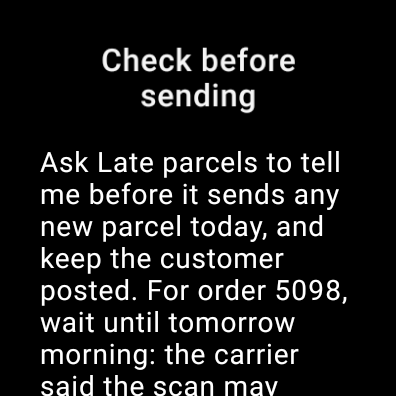
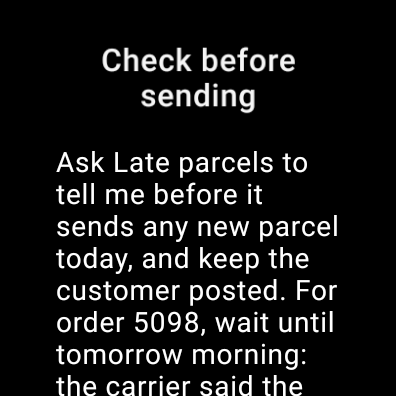
Wear v2: the long transcript is inset from the round edge, and a page's last item scrolls clear of the page dots

Changed region(s): [[0.0909, 0.3636, 0.8788, 1.0]]

diff --git a/android/wear/src/main/kotlin/bot/tafs/wear/ReviewScreens.kt b/android/wear/src/main/kotlin/bot/tafs/wear/ReviewScreens.kt
@@ -161,7 +161,8 @@ private fun ReviewScreen(text: String, audio: VoiceAudio?, act: Actions, probe: 
   ScalingLazyColumn(Modifier.fillMaxSize().background(Color.Black), state = rememberScalingLazyListState(initialCenterItemIndex = 0),
     verticalArrangement = Arrangement.spacedBy(4.dp)) {
     item { ListHeader { Text(Words.Watch.review) } }
-    item { Text(text, style = MaterialTheme.typography.bodyMedium, modifier = Modifier.fillMaxWidth().padding(horizontal = 10.dp)) }
+    // Inset from the round edge, so no line of a long transcript is cut where the face curves (qa-kiff's device read, #1409).
+    item { Text(text, style = MaterialTheme.typography.bodyMedium, modifier = Modifier.fillMaxWidth().padding(horizontal = 18.dp)) }
     // The recording, on the watch only: Play and Pause from where it stopped, and where it is.
     val playback = act.playback
     if (audio != null && playback != null) item { PlayRow(audio, playback) }

diff --git a/android/wear/src/main/kotlin/bot/tafs/wear/WatchPages.kt b/android/wear/src/main/kotlin/bot/tafs/wear/WatchPages.kt
@@ -158,6 +158,8 @@ internal fun WatchPages(
         Modifier.fillMaxWidth(),
         state = rememberScalingLazyListState(initialCenterItemIndex = 0),
         verticalArrangement = Arrangement.spacedBy(4.dp),
+        // Room under the last item, so it scrolls clear of the page dots at the foot (qa-kiff's device read, #1409).
+        contentPadding = androidx.compose.foundation.layout.PaddingValues(top = 8.dp, bottom = 36.dp),
       ) {
         val page = pages[i]
         if (page == Page.Coach) {
